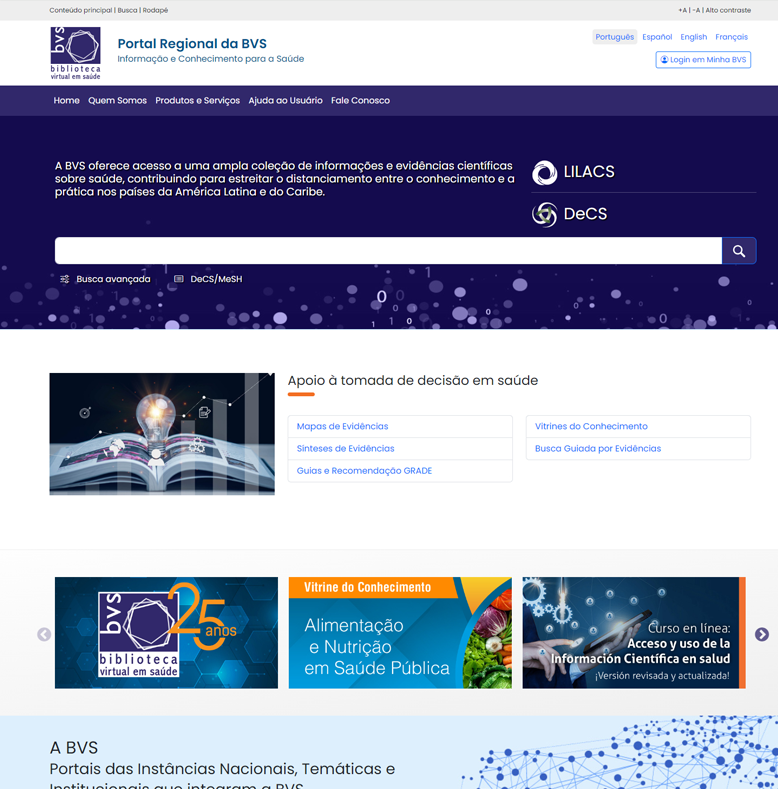
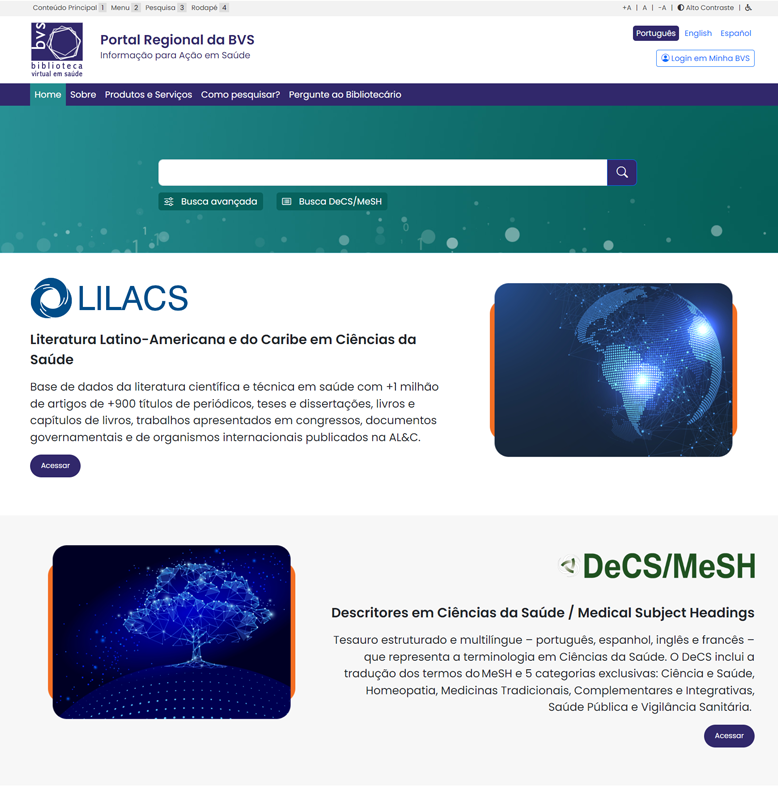
Ajustes Tema WordPress Portal Regional

diff --git a/portal-regional/css/style.css b/portal-regional/css/style.css
@@ -5,8 +5,8 @@ a{
 	text-decoration: none!important;
 }
 .padding1{
-	padding-top: 80px;
-	padding-bottom: 80px;
+	padding-top: 50px;
+	padding-bottom: 70px;
 }
 .padding2{
 	padding-top: 15px;
@@ -42,11 +42,11 @@ a{
 }
 .btn-outline-primary:hover,
 .btn-primary:hover{
-	background: #4a3e93!important;
+	background: #31286b!important;
 }
 .title1{
 	position: relative;
-	margin-bottom: 50px;
+	margin-bottom: 30px;
 	font-family: 'Poppins', sans-serif;
 }
 .title1::after {
@@ -108,6 +108,9 @@ a{
 }
 #nav .active{
 	background:#238b8e;
+}
+#nav .dropdown-menu .active{
+	background: #ffffff;
 }
 #lang{
 	text-align: right;
@@ -279,6 +282,7 @@ a{
 	padding: 10px 0px 0 5px;
 	border-radius: 10px 0 0 10px;
 	transition: all .5s ease;
+	display:none;
 }
 #social:hover{
 	background: #31286b;
@@ -349,7 +353,10 @@ a{
 }
 @media (max-width:992px){
 	#nav{
-		padding:20 0;
+		padding:10px;
+	}
+	#nav .active{
+		padding-left: 10px;
 	}
 	#section-bvs{
 		background-color: #ddeffd;;
@@ -388,6 +395,9 @@ a{
 	#logo-bvs{
 		text-align: center;
 	}
+	#lilacs p, #decs p, #lilacs figure, #decs figure{
+		text-align:left!important;
+	}
 }
 @media (max-width:772px){
 	#section-bvs{
@@ -404,8 +414,19 @@ a{
 }
 .apoio-menu a:hover{
 	color: #ddd;
-
 }
 .wp-block-button__link:hover{
-	color:#ddd!important;
+	background:#238b8e!important;
+}
+.btn-accordion:hover{
+	opacity:.8;
+}
+.btn-accordion .active{
+	background: #fff!important;
+	border:2px solid #238B8E!important;
+	color: #238B8E;
+}
+.box-apoio a:hover{
+	color: #238b8e;
+	opacity: .8;
 }

diff --git a/portal-regional/home.php b/portal-regional/home.php
@@ -1,5 +1,4 @@
 <?php /* Template Name: Default without container */ ?>
 <?php get_header(); ?>
-<?php get_template_part('includes/nav') ?>
 		<?php the_content(); ?>
 <?php get_footer(); ?>

diff --git a/portal-regional/page.php b/portal-regional/page.php
@@ -1,6 +1,4 @@
 <?php get_header(); ?>
-<?php get_template_part('includes/nav') ?>
-
 <section class="padding1">
 	<div class="container">
 		<h1 class="title1"><?php the_title(); ?></h1>

diff --git a/portal-regional/single.php b/portal-regional/single.php
@@ -1,6 +1,4 @@
 <?php get_header(); ?>
-<?php get_template_part('includes/nav') ?>
-
 <section class="padding1">
 	<div class="container">
 		<h1 class="title1"><?php the_title(); ?></h1>

diff --git a/portal-regional/index.php b/portal-regional/index.php
@@ -1,5 +1,4 @@
 <?php get_header(); ?>
-<?php get_template_part('includes/nav') ?>
 <section class="padding1">
 	<div class="container">
 		<h1 class="title1"><?php the_title(); ?></h1>

diff --git a/portal-regional/404.php b/portal-regional/404.php
@@ -1,6 +1,4 @@
 <?php get_header(); ?>
-<?php get_template_part('includes/nav') ?>
-
 <section class="padding1">
 	<div class="container">
 		<h1 class="title1">404</h1>

diff --git a/portal-regional/header.php b/portal-regional/header.php
@@ -40,4 +40,5 @@
 			</div>
 		</div>
 	</header>
+	<?php get_template_part('includes/nav') ?>
 	<?php wp_head(); ?>
